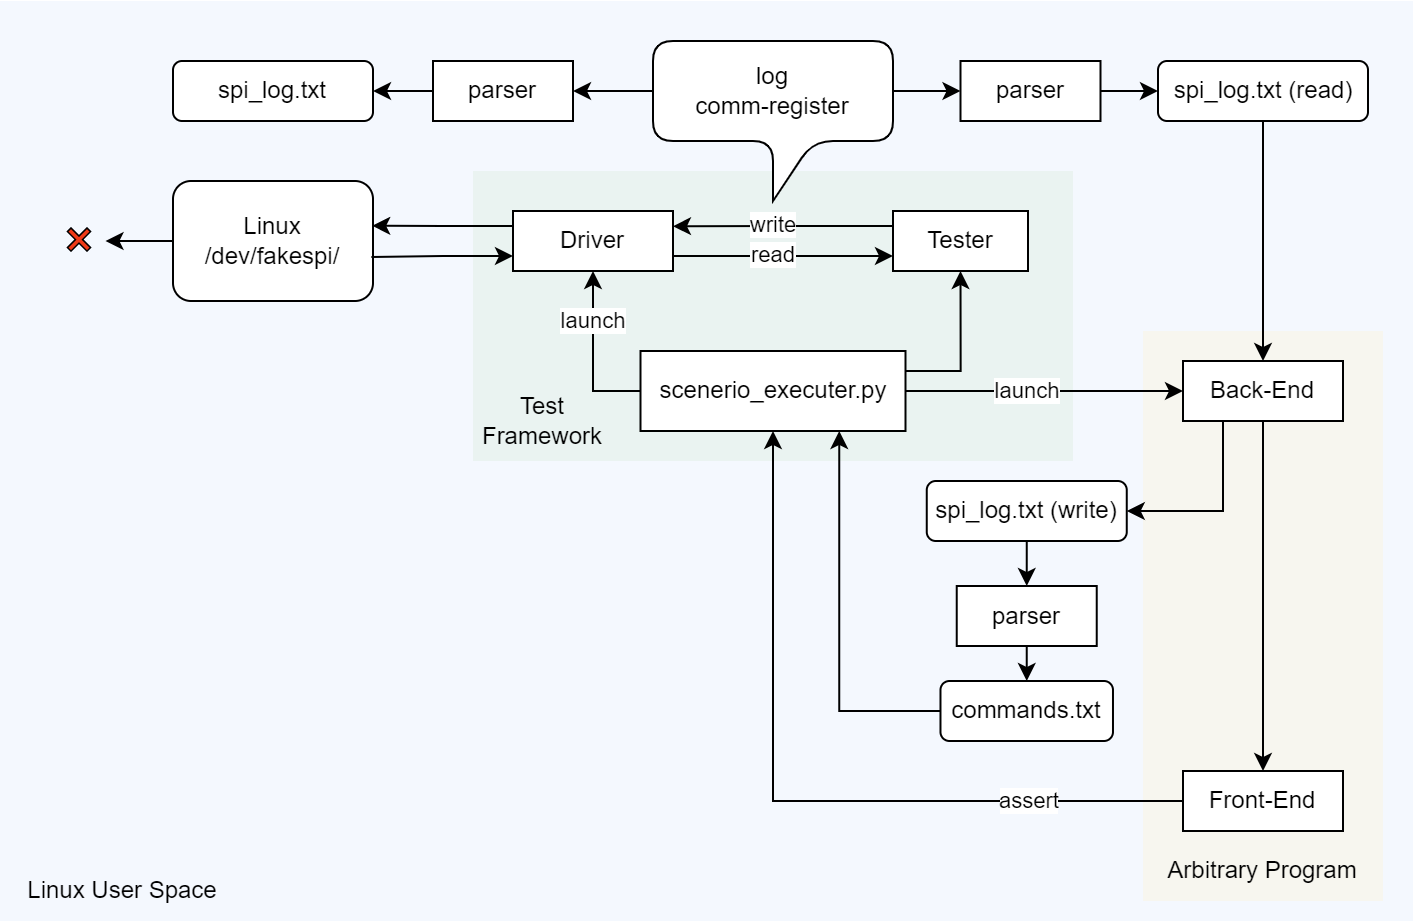
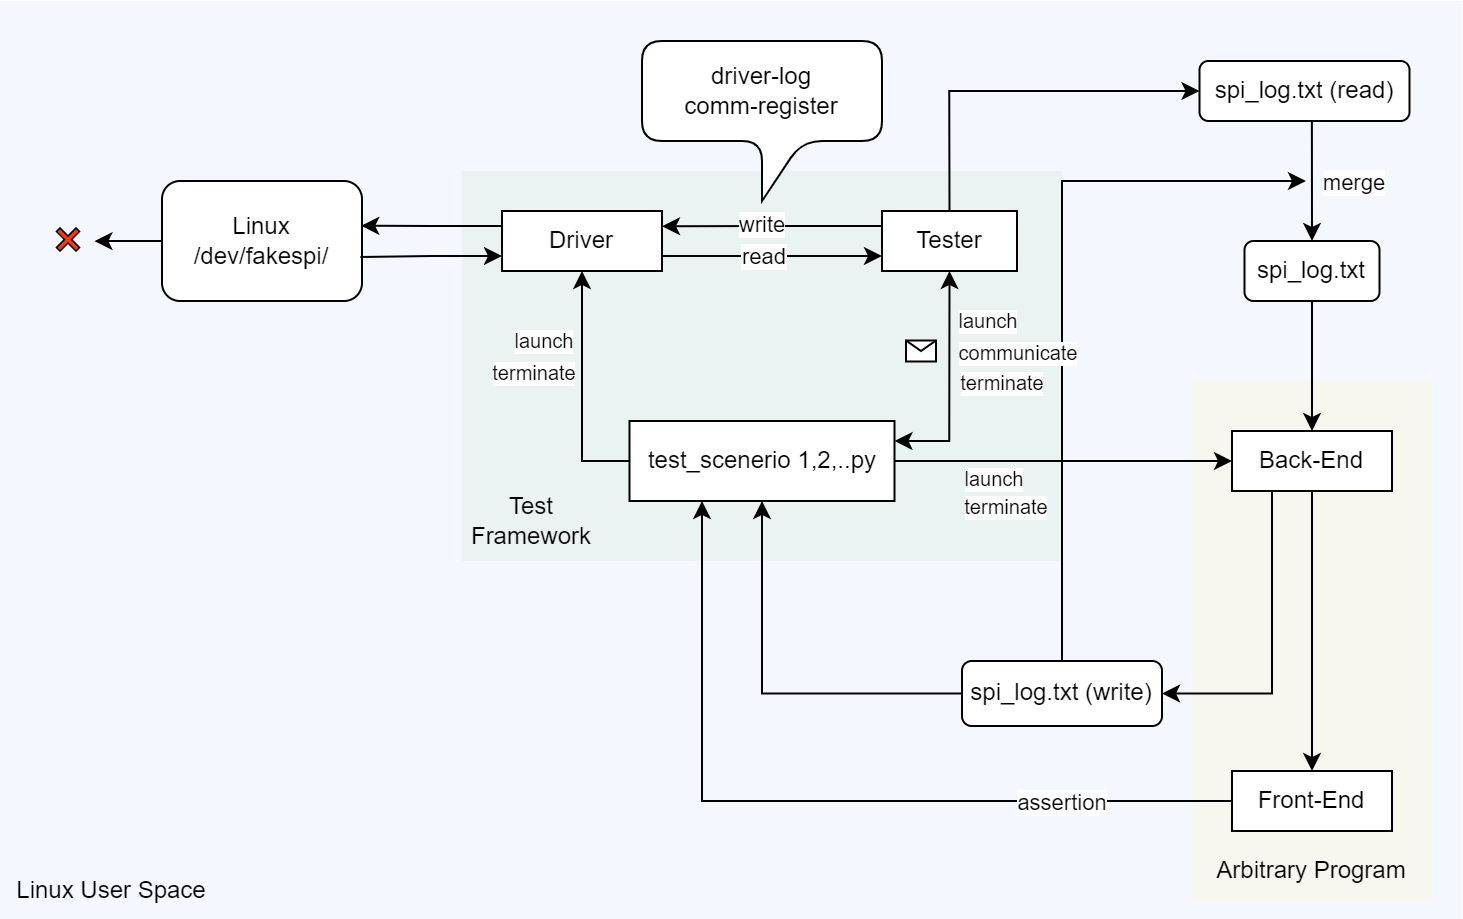
Update README for part 1 along the changes, update schematics

diff --git a/README.md b/README.md
@@ -1,14 +1,22 @@
 # Virtual Device Simulator
 
-The main objective of this project is to develop a software platform that enables the creation, manipulation, and use of virtual devices in the user space of an operating system. The goal is to make it easier for developers to create and test embedded software without having to use physical hardware. This will save time and resources and allow for more efficient and streamlined software development processes. The platform will be designed to be flexible and user-friendly, making it accessible to a wide range of developers with varying skill levels.
+The main objective of this project is to develop a software platform that enables the creation, manipulation, and use of virtual devices in the user space of an operating system. The goal is to make it easier for developers to create and test embedded software without having to use actual physical hardware. This will save time and resources and allow for more efficient and streamlined software development processes. The platform is designed to be flexible and user-friendly, making it accessible to a wide range of programmers who develop embedded linux applications. Virtual Device Simulator also includes features for automated testing and validation. This allows developers to automatically test communication between the embedded software and the virtual peripheral device, verify the accuracy of data transmission, and ensure the correct functioning of all software components with arrangable test scenerios while providing realistic log files for easy debug.
 ## Table of Contents
 
 - [Virtual Device Simulator](#virtual-device-simulator)
   - [Table of Contents](#table-of-contents)
+  - [Understanding Linux Devices](#understanding-linux-devices)
+    - [Linux devices operating scenerio](#linux-devices-operating-scenerio)
+    - [Fake device operating scenerio](#fake-device-operating-scenerio)
   - [Getting Started](#getting-started)
-    - [Prerequisites](#prerequisites)
-    - [Installation](#installation)
+  - [Prerequisites](#prerequisites)
+    - [For Debian-based OS](#for-debian-based-os)
+  - [Installation](#installation)
   - [Usage](#usage)
+    - [Starting modes:](#starting-modes)
+    - [After program has run,](#after-program-has-run)
+      - [There are commands below user can call:](#there-are-commands-below-user-can-call)
+    - [Example Usage](#example-usage)
   - [Documentation](#documentation)
   - [Built With](#built-with)
   - [Contributing](#contributing)
@@ -17,51 +25,60 @@ The main objective of this project is to develop a software platform that enable
   - [License](#license)
   - [Acknowledgments](#acknowledgments)
 
-## Getting Started
-
-These instructions will get you a copy of the project up and running on your local machine for development and testing purposes.
-
-### Prerequisites
-
-The following tools are required to get started with this project:
-
-- [C++ Compiler](https://gcc.gnu.org/install/index.html)
-- [nlohmann/json](https://github.com/nlohmann/json) header-only library for JSON
-- [Python](https://www.python.org/downloads/)
-
-Make sure you have the latest versions of these tools installed on your machine before proceeding with the installation.
-
-
-### Installation
-
-1. Clone the repository to your local machine using the following command:
-```
-$ git clone https://github.com/onurulusoy4/Virtual-Device-Simulator.git
-```
-2. Install the required libraries and dependencies by running the following command:
-```
-$ git clone https://github.com/nlohmann/json.git
-$ cd json
-$ mkdir build
-$ cd build
-$ cmake ..
-$ make
-$ make install
-```
-
-## Understanding Devices
-
-...
-
+## Understanding Linux Devices
+Linux, as an open-source operating system kernel, provides a unique and versatile structure for managing devices. Devices in Linux are treated as files and are accessed through file systems, illustrating the philosophy of "everything is a file." This structure includes various types of devices such as hard drives, RAM, USBs, printers, and even keyboards. The device files are typically housed in the "/dev" directory, each having specific permissions and ownership. Understanding Linux devices involves a comprehension of these file-based device interactions, the different categories of devices, and the permissions that control their accessibility. This foundational knowledge is key to effective system administration and troubleshooting within a Linux environment.
 ### Linux devices operating scenerio
-...
+In the Linux operating scenario, an arbitrary program interacts with a device file, in this case "/dev/spi", located within the user space. This file essentially represents a physical SPI (Serial Peripheral Interface) hardware in the system. The communication between the user space and the kernel space is facilitated through the kernel's SPI driver. When the program writes to or reads from "/dev/spi", it is, in reality, communicating with the physical SPI hardware via this kernel SPI driver. The "/dev/spi" file acts as an interface between the program and the SPI hardware, encapsulating the complexities of hardware interaction. Any communication log generated in this process, such as spi_log.txt, records the intricate details of these transactions, providing valuable insights for debugging and system optimization purposes.
 
-![Real device schematic](schematics/real_device_schematic.png)
+![Real device schematic](/schematics/real_dev_schematic.png)
+
 
 ### Fake device operating scenerio
-...
+In the scenario of a fake device operating within a Linux user space, a systematic and interactive process is automated. This process is initiated by a test framework, such as Robot Framework, that starts running different test scenarios sequentially. Each test scenario launches a driver and tester processes, which interact with each other to emulate the actions on the fake device.
 
-![Fake device schematic](schematics/fake_device_schematic.png)
+The operation begins with the back end of an arbitrary program providing an SPI write sequence to the test scenario. This sequence is then sent to the tester process, which executes these SPI write commands through the driver. The driver, in turn, simulates actions on the fake device, like writing to the device. During this procedure, a log of communications between the driver and tester processes is created. This log, consisting of details such as driver-log and communication registers, is a valuable asset for later analysis and debugging.
+
+Simultaneously, the tester process generates corresponding read lines for each write line. These read lines, when merged with the SPI write lines, form an SPI log. This log is sent back to the back end of the arbitrary program. Based on this SPI log, the front end of the arbitrary program can either manipulate the test process or allow the test to continue as per the scenario. This elaborate interplay between various components provides a high level of control and traceability for the testing process in a user space environment.
+
+![Fake device schematic](/schematics/fake_dev_schematic.png)
+
+
+## Getting Started
+
+This guide will assist you in cloning, setting up, and running the project on your local machine for the purposes of development and testing. 
+
+## Prerequisites
+
+In order to successfully install and run this project, you will need to ensure the availability of several tools and libraries on your local development environment. These include:
+
+- **C++ Compiler**, with support for C++ 17 at minimum, along with its default libraries. If you have not installed it yet, you can download it from the [GNU GCC Compiler official website](https://gcc.gnu.org/install/index.html).
+- **CMake**, version 3.5 or above, is essential for managing the build process of this software. It can be obtained from the [official CMake website](https://cmake.org/download/).
+- **nlohmann/json**, a modern C++ library for parsing and manipulating JSON data structures. Can be downloaded from [its official repository](https://github.com/nlohmann/json)
+- **Python3 interpreter** along with its default libraries. It can be downloaded from the [official Python website](https://www.python.org/downloads/).
+- **ZeroMQ and MsgPack** libraries for **both C++ and Python**. ZeroMQ is a high-performance asynchronous messaging library, and MessagePack is a binary serialization format. They can be found at their respective official websites.
+- Python libraries for handling **JSON** and **YAML** data formats.
+- **Robot Framework**, a generic open-source automation framework for acceptance testing, acceptance test-driven development (ATDD), and robotic process automation (RPA). It can be installed via pip, Python's package manager.
+
+Please ensure all these prerequisites are met before proceeding to the installation of the project.
+
+### For Debian-based OS
+Using the bash script below, all the dependencies can easily be installed for Debian-based operation systems.
+```bash
+sudo apt install build-essential  # C++ Compiler
+sudo apt install cmake  # CMake
+sudo apt install nlohmann-json3-dev  # nlohmann/json
+sudo apt install python3  # Python3 interpreter
+sudo apt install libzmq3-dev  # ZeroMQ for C++
+pip install pyzmq  # ZeroMQ for Python
+pip install msgpack  # MsgPack for Python
+pip install pyyaml  # Python libraries for handling JSON and YAML data formats
+pip install robotframework  # Robot Framework
+```
+
+## Installation
+1. Install the required libraries and dependencies.
+2. Clone the repository to your local machine.
+3. 
 
 
 
